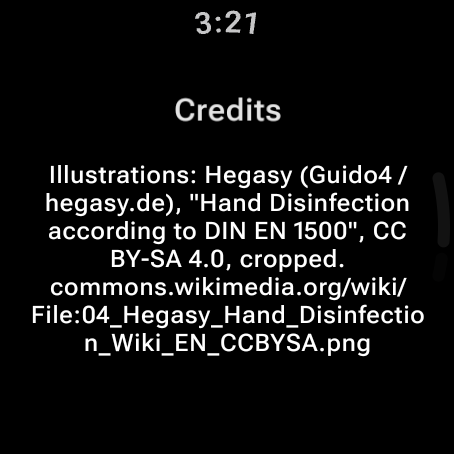
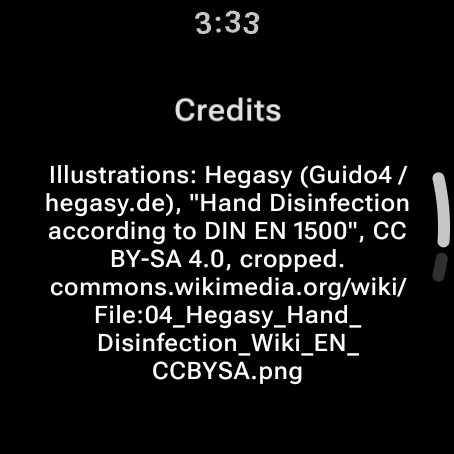
fix(ui): 48dp guide targets with click labels, Routes constants, wrapping Credits URL
Summary rows and Focus line: min 48dp, onClickLabel + Button role (EN/ES).
Drop default no-op onGuide/onCredits. Credits URL wraps at / and _.
Name focusStep's statuses vararg and comment the tie-break.

Changed region(s): [[0.0617, 0.6476, 0.9559, 0.8634], [0.9559, 0.37, 1.0, 0.6167], [0.4934, 0.0308, 0.5859, 0.0925]]

diff --git a/wear/src/main/java/com/hapticwash/ui/MainActivity.kt b/wear/src/main/java/com/hapticwash/ui/MainActivity.kt
@@ -28,14 +28,15 @@ import androidx.compose.animation.core.spring
 import androidx.compose.animation.core.tween
 import androidx.compose.foundation.background
 import androidx.compose.foundation.clickable
-import androidx.compose.foundation.Image
 import androidx.compose.foundation.shape.CircleShape
 import androidx.compose.ui.draw.clip
 import androidx.compose.foundation.shape.RoundedCornerShape
 import androidx.compose.foundation.interaction.MutableInteractionSource
 import androidx.compose.foundation.interaction.collectIsPressedAsState
 import androidx.compose.foundation.Canvas
+import androidx.compose.foundation.Image
 import androidx.compose.foundation.layout.height
+import androidx.compose.foundation.layout.heightIn
 import androidx.compose.foundation.layout.size
 import androidx.compose.foundation.layout.Spacer
 import androidx.compose.ui.draw.drawBehind
@@ -58,6 +59,7 @@ import androidx.compose.ui.graphics.StrokeCap
 import androidx.compose.ui.graphics.drawscope.Stroke
 import androidx.compose.ui.graphics.drawscope.withTransform
 import androidx.compose.ui.res.painterResource
+import androidx.compose.ui.semantics.Role
 import androidx.compose.ui.semantics.contentDescription
 import androidx.wear.compose.material3.Icon
 import com.hapticwash.session.StepCoverage
@@ -351,27 +353,27 @@ fun App(startRequests: () -> Int = { 0 }, openRequest: () -> Long? = { null }, o
     val ambientNow = ambient().takeIf { running.running }
     var answered by rememberSaveable { mutableIntStateOf(0) }
     // A Tile or complication tap: back to Start, which then starts (or rejoins) the Wash.
-    LaunchedEffect(startRequests()) { if (startRequests() > answered) nav.popBackStack("start", inclusive = false) }
+    LaunchedEffect(startRequests()) { if (startRequests() > answered) nav.popBackStack(Routes.START, inclusive = false) }
     // A Wash that began without a tap on Start (a Twist): show it. A tap has already navigated, so Start is no longer current.
     LaunchedEffect(running.running) {
-        if (running.running && nav.currentBackStackEntry?.destination?.route == "start") nav.navigate("wash")
+        if (running.running && nav.currentBackStackEntry?.destination?.route == Routes.START) nav.navigate(Routes.WASH)
     }
     // A tap on the Tile's ring or words: that Wash's Summary, over Start, as if opened from History.
     LaunchedEffect(openRequest()) {
         val id = openRequest() ?: return@LaunchedEffect
-        nav.popBackStack("start", inclusive = false)
-        nav.navigate("summary/$id")
+        nav.popBackStack(Routes.START, inclusive = false)
+        nav.navigate(Routes.summary(id))
         onOpened()
     }
     // The Wash screen stays composed under ambient mode, so waking returns to it as it was; ambient only covers it.
     Box {
         CompositionLocalProvider(LocalAmbient provides (ambientNow != null)) {
-            SwipeDismissableNavHost(nav, startDestination = "start") {
+            SwipeDismissableNavHost(nav, startDestination = Routes.START) {
                 composable(Routes.START) {
                     StartScreen(
-                        onWash = { nav.navigate("wash") },
-                        onHistory = { nav.navigate("history") },
-                        onSettings = { nav.navigate("settings") },
+                        onWash = { nav.navigate(Routes.WASH) },
+                        onHistory = { nav.navigate(Routes.HISTORY) },
+                        onSettings = { nav.navigate(Routes.SETTINGS) },
                         autoStart = startRequests() > answered,
                         onAutoStarted = { answered = startRequests() },
                     )
@@ -614,7 +616,7 @@ private fun StartScreen(onWash: () -> Unit, onHistory: () -> Unit, onSettings: (
  * new screen, so the ring and the stop square can carry across it. Swiping back from either goes to Start.
  */
 @Composable
-private fun WashScreen(onGuide: (Int) -> Unit = {}) {
+private fun WashScreen(onGuide: (Int) -> Unit) {
     var result by remember { mutableStateOf<Long?>(null) }
     val leave = remember { Animatable(0f) }
     LaunchedEffect(result) { if (result != null) leave.animateTo(1f, tween(200)) }
@@ -889,7 +891,7 @@ private fun WashBody(onEnd: (Long) -> Unit, handedOver: Boolean) {
 
 /** A Wash's Summary: the one just ended ([fromWash]), or one from History. */
 @Composable
-private fun SummaryScreen(id: Long?, fromWash: Boolean = false, onGuide: (Int) -> Unit = {}) {
+private fun SummaryScreen(id: Long?, fromWash: Boolean = false, onGuide: (Int) -> Unit) {
     val context = LocalContext.current
     val wash = remember(id) {
         WashService.lastWash.value?.takeIf { it.id == id } ?: History.get(context).read().find { it.id == id }
@@ -937,7 +939,9 @@ private fun SummaryScreen(id: Long?, fromWash: Boolean = false, onGuide: (Int) -
                                 val p = staggered(entrance.value, i)
                                 alpha = p
                                 translationY = (1 - p) * rise
-                            }.clip(RoundedCornerShape(16.dp)).clickable { onGuide(c.label) }.padding(horizontal = 16.dp).semantics(mergeDescendants = true) {}, horizontalArrangement = Arrangement.spacedBy(8.dp)) {
+                            }.clip(RoundedCornerShape(16.dp)).clickable(onClickLabel = stringResource(R.string.open_guide, steps[c.label - 1]), role = Role.Button) { onGuide(c.label) }
+                                .heightIn(min = 48.dp).padding(horizontal = 16.dp).semantics(mergeDescendants = true) {},
+                            horizontalArrangement = Arrangement.spacedBy(8.dp), verticalAlignment = Alignment.CenterVertically) {
                             // A soft chip behind the glyph, tinted only when the Step looks covered; the words and the mark say the rest.
                             Box(
                                 Modifier.size(32.dp).clip(CircleShape).background(if (c.status == StepStatus.OK) colors.primary.copy(alpha = 0.18f) else colors.surfaceContainer).clearAndSetSemantics {},
@@ -958,11 +962,14 @@ private fun SummaryScreen(id: Long?, fromWash: Boolean = false, onGuide: (Int) -
                     // The Focus Step: at most one estimate-language line, opening the same guide as its row.
                     focus?.let { label ->
                         item {
-                            Text(
-                                stringResource(R.string.focus_step, steps[label - 1]),
-                                morphContent(spec).clip(RoundedCornerShape(16.dp)).clickable { onGuide(label) }.padding(horizontal = 16.dp, vertical = 8.dp),
-                                color = colors.onSurfaceVariant, style = MaterialTheme.typography.bodySmall, textAlign = TextAlign.Center,
-                            )
+                            Box(
+                                morphContent(spec).clip(RoundedCornerShape(16.dp))
+                                    .clickable(onClickLabel = stringResource(R.string.open_guide, steps[label - 1]), role = Role.Button) { onGuide(label) }
+                                    .heightIn(min = 48.dp).padding(horizontal = 16.dp, vertical = 8.dp),
+                                contentAlignment = Alignment.Center,
+                            ) {
+                                Text(stringResource(R.string.focus_step, steps[label - 1]), color = colors.onSurfaceVariant, style = MaterialTheme.typography.bodySmall, textAlign = TextAlign.Center)
+                            }
                         }
                     }
                 }
@@ -1049,12 +1056,13 @@ private fun HistoryScreen(onOpen: (Long) -> Unit) {
 private fun CreditsScreen() {
     ListScreen(backdrop = false) { spec ->
         item { Header(spec, stringResource(R.string.credits)) }
-        item { Notice(stringResource(R.string.credits_body), morphContent(spec)) }
+        // The URL has no spaces; a zero-width space after "/" and "_" lets it wrap on the round edge instead of mid-word.
+        item { Notice(stringResource(R.string.credits_body).replace("/", "/\u200B").replace("_", "_\u200B"), morphContent(spec)) }
     }
 }
 
 @Composable
-private fun SettingsScreen(onCredits: () -> Unit = {}) {
+private fun SettingsScreen(onCredits: () -> Unit) {
     val context = LocalContext.current
     val settings = remember { Settings(context) }
     val status by WashService.status.collectAsState()
@@ -1210,7 +1218,7 @@ private fun ink(coverage: List<StepCoverage>) =
 
 /** One glyph per Step, in canonical order (labels 1..5). */
 private val STEP_ART = intArrayOf(R.drawable.step_art_palms, R.drawable.step_art_backs, R.drawable.step_art_between, R.drawable.step_art_thumbs, R.drawable.step_art_tips)
-private val STEP_ICONS =intArrayOf(R.drawable.ic_step_palms, R.drawable.ic_step_backs, R.drawable.ic_step_between, R.drawable.ic_step_thumbs, R.drawable.ic_step_tips)
+private val STEP_ICONS = intArrayOf(R.drawable.ic_step_palms, R.drawable.ic_step_backs, R.drawable.ic_step_between, R.drawable.ic_step_thumbs, R.drawable.ic_step_tips)
 
 /** How much of a Step's arc is filled: shape carries the Status, not colour (§4.1.10). */
 internal fun share(s: StepStatus) = when (s) {
@@ -1261,12 +1269,12 @@ private fun PreviewFrame(content: @Composable () -> Unit) = HapticWashTheme { Ap
 @WearPreviewDevices
 @WearPreviewFontScales
 @Composable
-private fun WashPreview() = PreviewFrame { WashScreen() }
+private fun WashPreview() = PreviewFrame { WashScreen(onGuide = {}) }
 
 @WearPreviewDevices
 @WearPreviewFontScales
 @Composable
-private fun SettingsPreview() = PreviewFrame { SettingsScreen() }
+private fun SettingsPreview() = PreviewFrame { SettingsScreen(onCredits = {}) }
 
 @WearPreviewDevices
 @Composable

diff --git a/wear/src/main/java/com/hapticwash/session/Coverage.kt b/wear/src/main/java/com/hapticwash/session/Coverage.kt
@@ -53,11 +53,12 @@ data class CoverageConfig(
 fun focusStep(washes: List<WashSession>, config: CoverageConfig = CoverageConfig()): Int? {
     val window = washes.filter { it.source == "sensor" && it.coverageShown }.take(config.focusWindow)
     if (window.size < config.focusMinWashes) return null
-    fun rate(label: Int, vararg of: StepStatus) = window.count { w -> w.coverage[label - 1].status in of }.toFloat() / window.size
+    fun rate(label: Int, vararg statuses: StepStatus) = window.count { w -> w.coverage[label - 1].status in statuses }.toFloat() / window.size
     return (1..5).filter {
         rate(it, StepStatus.NOT_DETECTED, StepStatus.BRIEF) >= config.focusMissedRate &&
             rate(it, StepStatus.NOT_DETECTED) >= config.focusNotDetectedRate
-    }.maxWithOrNull(compareBy({ rate(it, StepStatus.NOT_DETECTED) }, { it }))
+    } // Highest not-detected rate wins; a tie goes to the later Step (larger label).
+        .maxWithOrNull(compareBy({ rate(it, StepStatus.NOT_DETECTED) }, { it }))
 }
 
 /** Causal trailing mean of the last [ModelMeta.movingAverageK] vectors; averages what it has during warm-up. */
